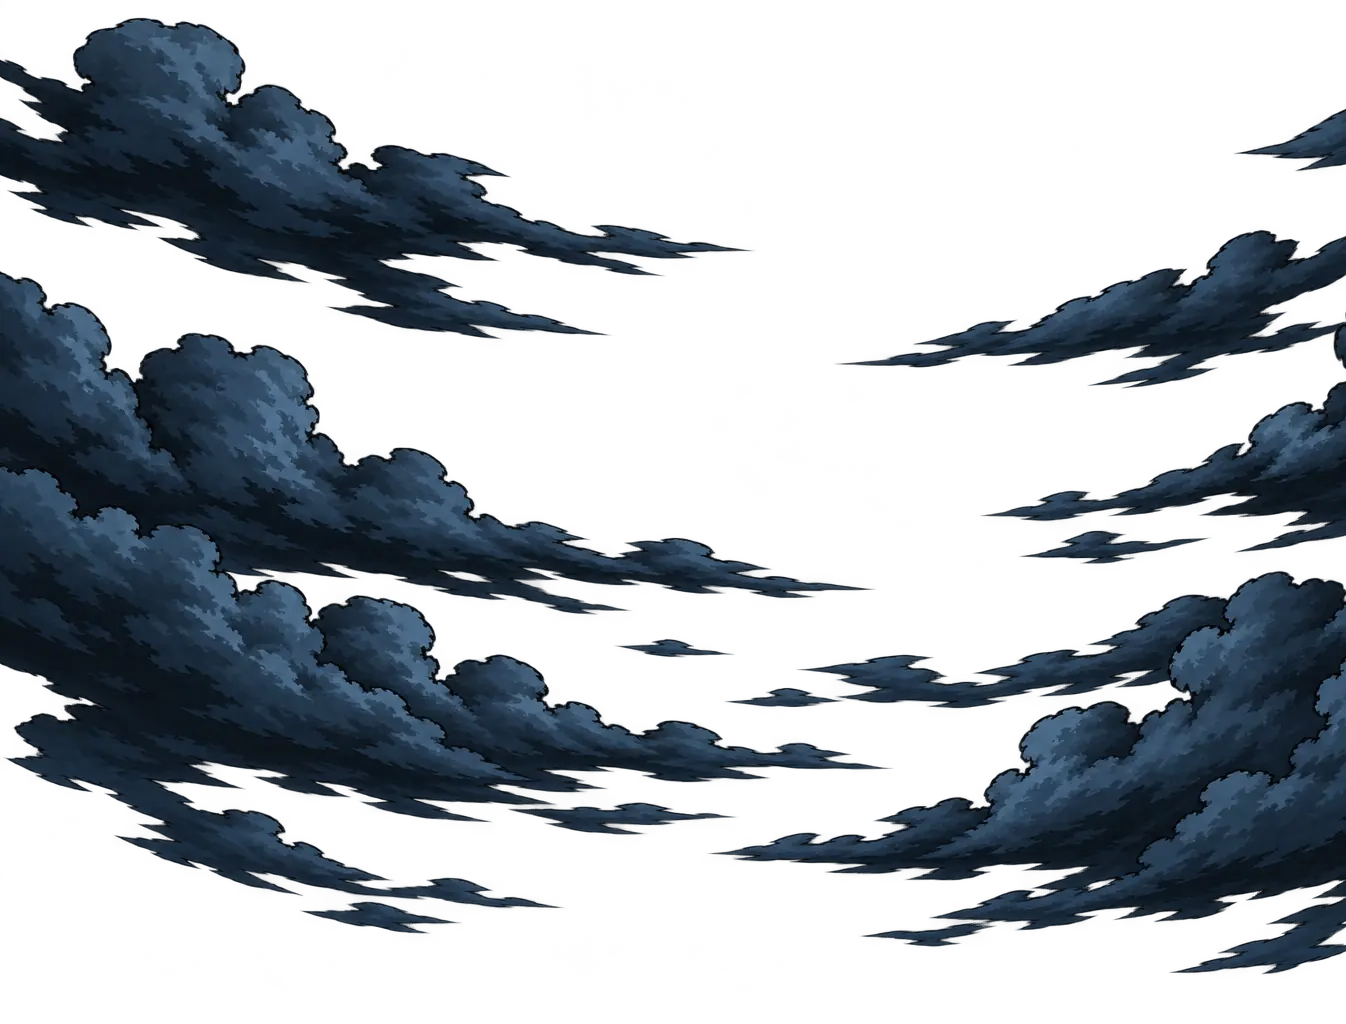
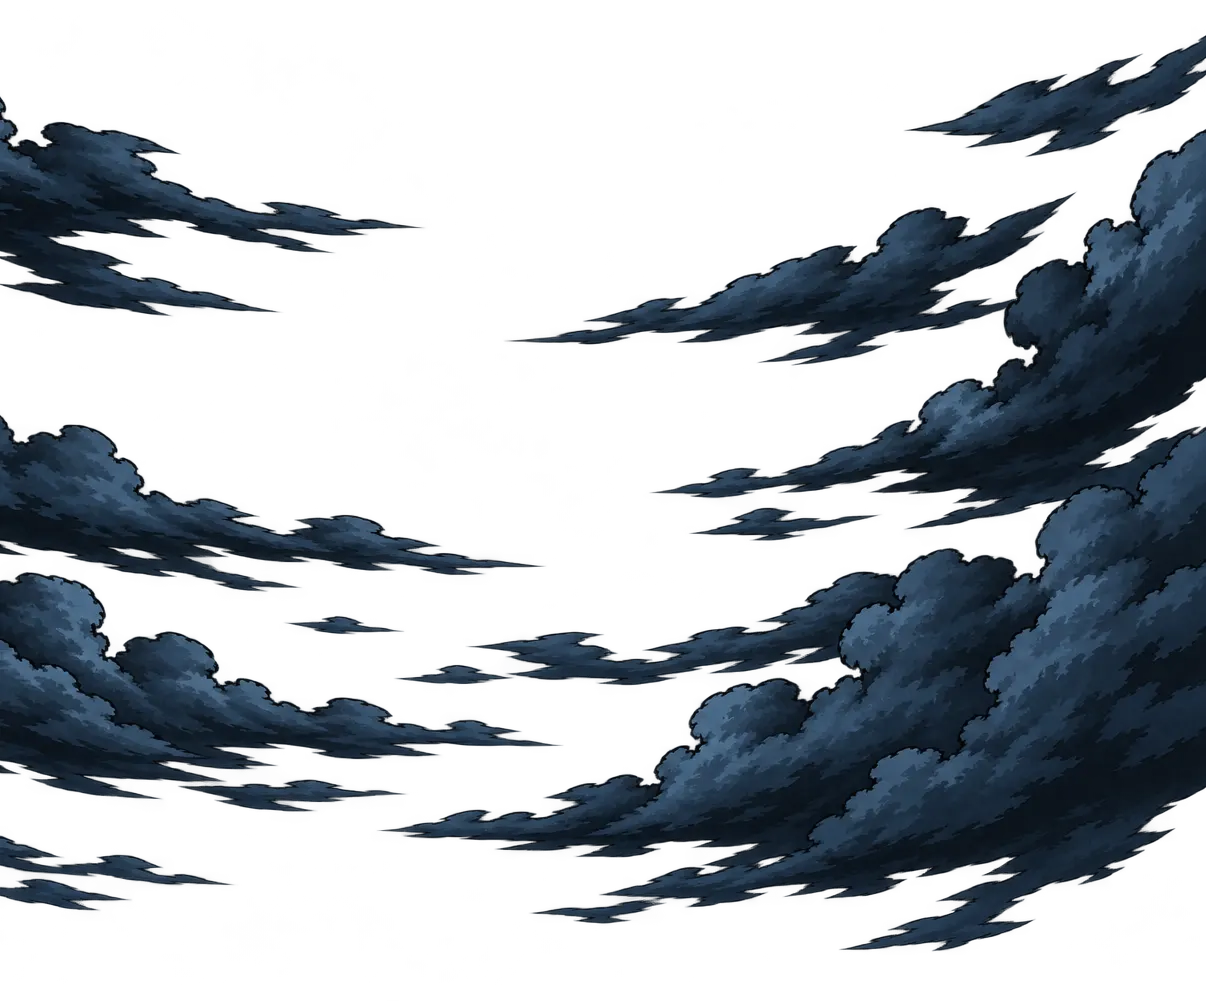
fix: forest clouds use the corrected crop and float with a slow zoom
Take the crop from 818:5870, fade the left cut, and keep every edge off
the stage while the clouds drift and zoom.

diff --git a/prototype/src/styles/components.css b/prototype/src/styles/components.css
@@ -467,10 +467,14 @@
   animation-iteration-count: infinite;
   animation-direction: alternate;
 }
+/* Clouds float: a slow drift and a slower zoom, never in step (26 s and 22 s cycles).
+   Kept slightly enlarged, so with drift and parallax no edge reaches the stage. */
 .env-drift-clouds {
-  animation-name: env-drift-clouds;
-  animation-duration: 6s;
-  animation-delay: -3s;
+  scale: 1.065;
+  transform-origin: 30% 50%;
+  animation-name: env-drift-clouds, env-zoom-clouds;
+  animation-duration: 13s, 11s;
+  animation-delay: -6.5s, -4s;
 }
 .env-drift-mist {
   animation-name: env-drift-mist, env-pulse-mist;
@@ -508,10 +512,18 @@
 }
 @keyframes env-drift-clouds {
   from {
-    translate: -22px 0;
+    translate: -18px 0;
   }
   to {
-    translate: 22px 0;
+    translate: 18px 0;
+  }
+}
+@keyframes env-zoom-clouds {
+  from {
+    scale: 1.05;
+  }
+  to {
+    scale: 1.08;
   }
 }
 /* Mist has no spare width on the right in Figma, so it drifts left of its place. */

diff --git a/prototype/src/scene/Environment.jsx b/prototype/src/scene/Environment.jsx
@@ -25,6 +25,10 @@ export function layerStyle(layer) {
   if (layer.blur) style.filter = `blur(${layer.blur}px)`
   if (layer.rotate) style.transform = `rotate(${layer.rotate}deg)`
   if (layer.plx) style.transform = `translateX(var(--plx-${layer.plx}))`
+  if (layer.fadeLeft) {
+    style.maskImage = `linear-gradient(to right, transparent, black ${layer.fadeLeft}px)`
+    style.WebkitMaskImage = style.maskImage
+  }
   return style
 }
 

diff --git a/docs/decisions.md b/docs/decisions.md
@@ -140,3 +140,4 @@ Log every assumption, trade-off and client answer here. Newest at the bottom.
 | 2026-11-09 | Lobby 885:10856 replaces the totem lobby, built before block G at Roman's request. It follows the frame: no HUD balance, no Rules/Menu medallions, rules on screen. Menu stays reachable from the round-end popup. Logo is the Figma image. RTP is a new placeholder in `config.js`; BET comes from config, so it reads 1.00 – 20.00 where the frame shows 10.00. | The frame is the reference; numbers change only in config. |
 | 2026-11-09 | Block F (UI, at Roman's request to match Figma as closely as possible): Dock/Shell 771:6134 is the one skin (no gem, no dividers, no mode badge); slots are 140 px columns; FIGHT sub-label reads "risk N" as in every reference frame, also on Baba Yaga, where the slot stays IF WON; SKIP is the pressed plate State=Skip 769:6112 in FIGHT's place, the round medallion is gone; Counter/Win has no skin; setup dock follows 772:6210 (one bet row, no pips); page title WITCHBOUND; MAX WIN dock shows FIGHT — and TAKE 0.00. The boss banners stay (Roman 07.11). | The frames are the reference. |
 | 2026-11-09 | Idle background motion restored at Roman's request, from the old `bg_scene` keyframes: clouds ±22 px and mist ±28 px on a 12 s sine, ground fog ±40 px, opacity pulses of mist, fog and moon glow, torch flicker, embers. Mist drifts left of its Figma place because the layer has no spare width on the right. | The Figma layers are static; the old scene moved and that motion is wanted. |
+| 2026-11-09 | Forest clouds use Roman's corrected crop from 818:5870. The left cut at x376 fades over 130 px. All three locations share one cloud motion: ±18 px drift (26 s) and a 5–8 % zoom (22 s). | The old crop showed its edge; the small enlargement keeps every edge off the stage with drift and parallax. |
